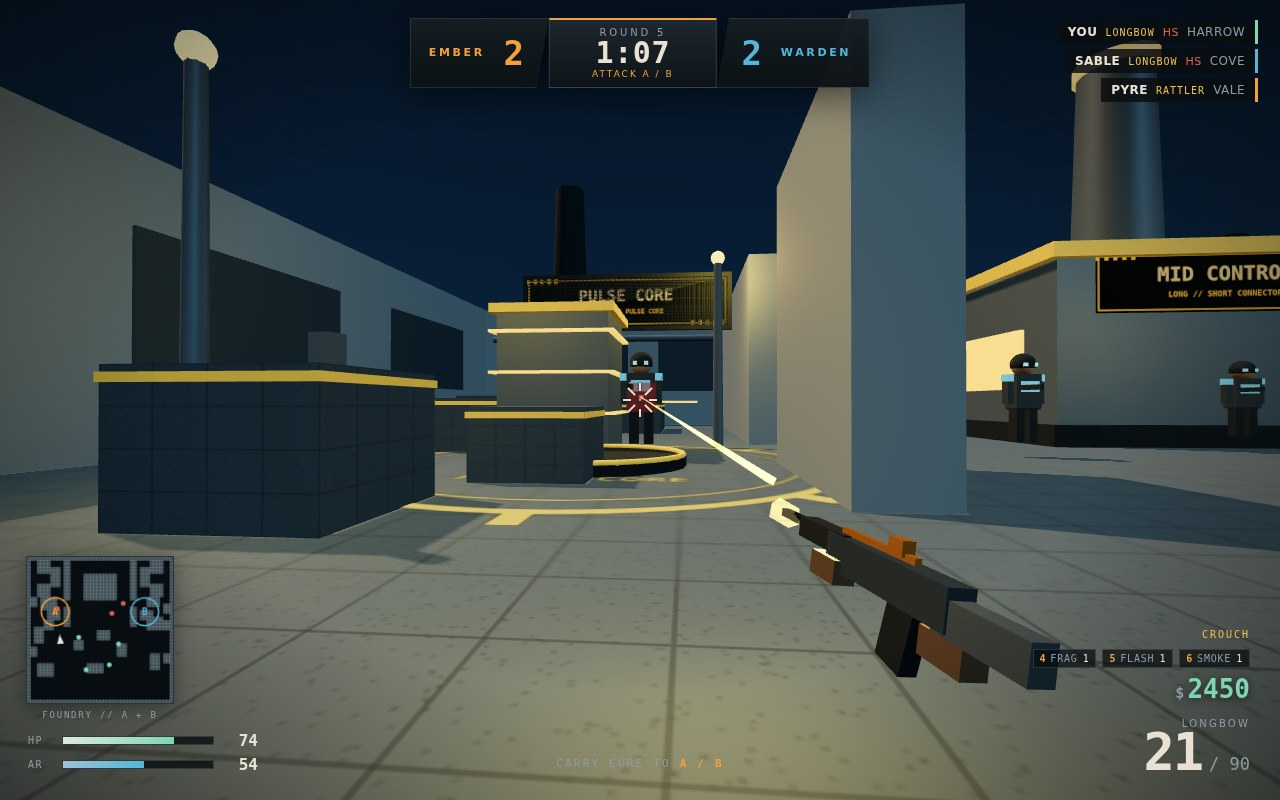
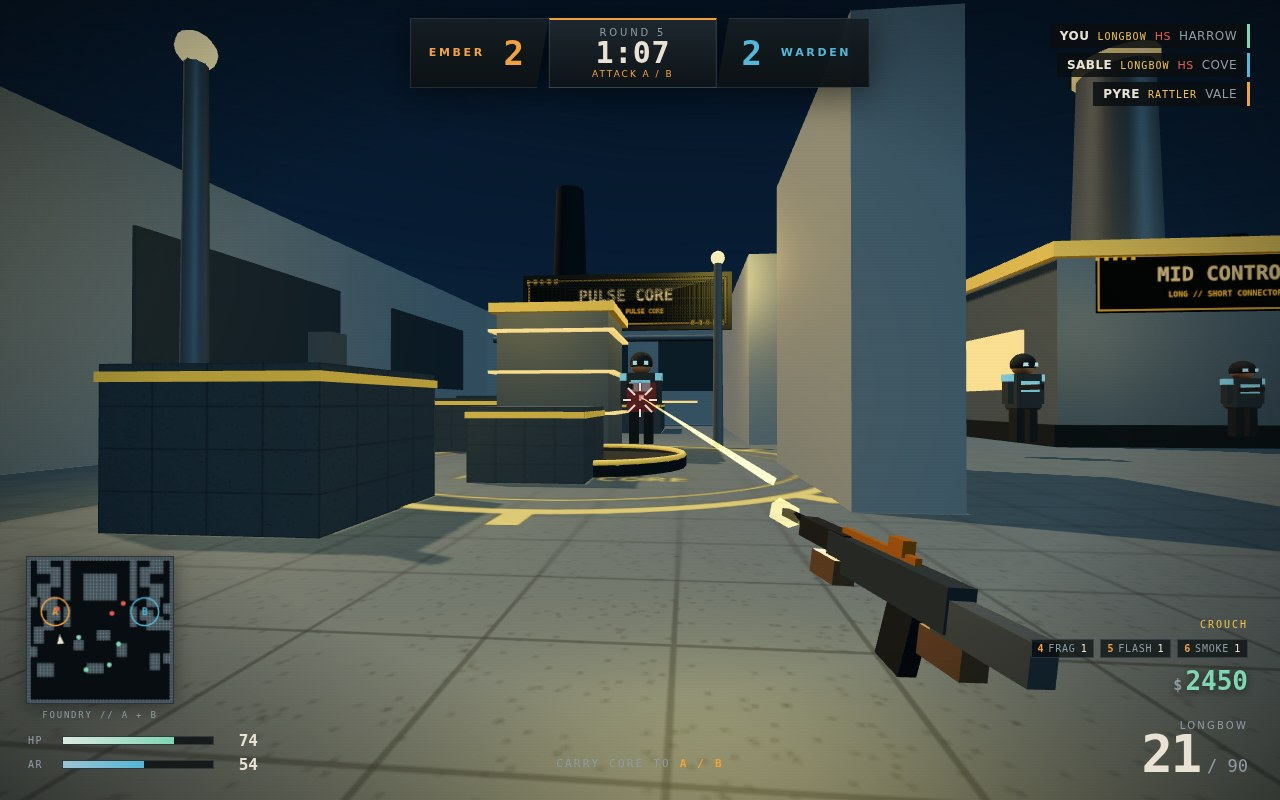
Give the combat HUD room to breathe

Changed region(s): [[0.8125, 0.0312, 1.0, 0.1562], [0.8125, 0.75, 1.0, 0.9062], [0.9062, 0.9062, 0.9688, 0.9688]]

diff --git a/game/index.html b/game/index.html
@@ -63,7 +63,7 @@ html, body { margin: 0; height: 100%; overflow: hidden; background: var(--bg); c
 #bombstatus[hidden] { display: none; }
 #bombstatus .dot { width: 8px; height: 8px; border-radius: 50%; background: var(--red); box-shadow: 0 0 12px var(--red); animation: pulse .55s infinite; }
 #bomb-timer { color: var(--hazard); font-size: 16px; font-weight: 700; }
-#killfeed { position: absolute; top: 20px; right: 22px; display: flex; flex-direction: column; gap: 5px; align-items: flex-end; }
+#killfeed { position: absolute; top: 24px; right: 30px; display: flex; flex-direction: column; gap: 5px; align-items: flex-end; }
 .feed { display: flex; align-items: center; gap: 8px; padding: 5px 10px; background: rgba(9, 13, 16, .84); border-right: 3px solid var(--amber); font-size: 12px; letter-spacing: .04em; animation: feedin .18s ease-out; }
 .feed.enemy { border-right-color: var(--cyan); }
 .feed.self { border-right-color: var(--green); }
@@ -110,21 +110,21 @@ html, body { margin: 0; height: 100%; overflow: hidden; background: var(--bg); c
 #radar-wrap { position: absolute; left: 26px; bottom: 96px; width: 148px; height: 148px; border: 1px solid var(--line); background: rgba(7, 11, 14, .92); box-shadow: 0 4px 20px rgba(0,0,0,.4); }
 #radar { width: 100%; height: 100%; display: block; }
 .radar-cap { position: absolute; left: 0; right: 0; bottom: -17px; text-align: center; font-family: var(--font-mono); font-size: 9px; letter-spacing: .2em; color: var(--muted); }
-#money { position: absolute; right: 30px; bottom: 96px; font-family: var(--font-mono); font-size: 26px; font-weight: 700; color: var(--green); text-shadow: 0 2px 10px rgba(0,0,0,.6); }
+#money { position: absolute; right: 32px; bottom: 104px; font-family: var(--font-mono); font-size: 26px; font-weight: 700; color: var(--green); text-shadow: 0 2px 10px rgba(0,0,0,.6); }
 #money .cur { font-size: 15px; color: var(--muted); margin-right: 3px; }
-#ammo { position: absolute; right: 30px; bottom: 24px; text-align: right; }
+#ammo { position: absolute; right: 32px; bottom: 22px; text-align: right; }
 #wpn-name { font-size: 10px; letter-spacing: .22em; color: var(--muted); }
 #ammo .nums { font-family: var(--font-mono); line-height: .9; }
 #ammo-mag { font-size: 52px; font-weight: 700; letter-spacing: -.04em; }
 #ammo-reserve { font-size: 17px; color: var(--muted); margin-left: 7px; }
 #ammo.empty #ammo-mag { color: var(--red); }
-#grenades { position: absolute; right: 30px; bottom: 132px; display: flex; gap: 6px; }
+#grenades { position: absolute; right: 32px; bottom: 142px; display: flex; gap: 6px; }
 .gchip { padding: 3px 6px; border: 1px solid var(--line); background: rgba(8,12,15,.72); font-family: var(--font-mono); font-size: 10px; letter-spacing: .08em; color: var(--muted); }
 .gchip b { color: var(--amber); margin-right: 4px; }
 .gchip i { font-style: normal; color: var(--ink); margin-left: 5px; }
 .gchip.sel { border-color: var(--amber); background: var(--amber-soft); color: var(--ink); }
 .gchip.empty { opacity: .38; }
-#stance { position: absolute; right: 30px; bottom: 160px; font-family: var(--font-mono); font-size: 10px; letter-spacing: .2em; color: var(--hazard); opacity: 0; }
+#stance { position: absolute; right: 32px; bottom: 170px; font-family: var(--font-mono); font-size: 10px; letter-spacing: .2em; color: var(--hazard); opacity: 0; }
 #stance.on { opacity: 1; }
 #reload { position: absolute; left: 50%; top: calc(50% + 46px); transform: translateX(-50%); font-family: var(--font-mono); font-size: 10px; letter-spacing: .22em; color: var(--hazard); opacity: 0; transition: opacity 90ms; }
 #reload.on { opacity: 1; animation: pulse .8s infinite; }
@@ -211,7 +211,7 @@ td .chip { display: inline-block; width: 7px; height: 7px; border-radius: 50%; m
 .menu kbd { display: inline-block; min-width: 20px; padding: 1px 5px; margin-right: 7px; border: 1px solid var(--line); font-family: var(--font-mono); font-size: 10px; color: var(--ink); text-align: center; }
 @media (max-width: 900px) {
 #radar-wrap { display: none; }
-#money { bottom: 88px; }
+#money { bottom: 96px; }
 .buy-grid { grid-template-columns: 1fr; }
 }
 </style>
